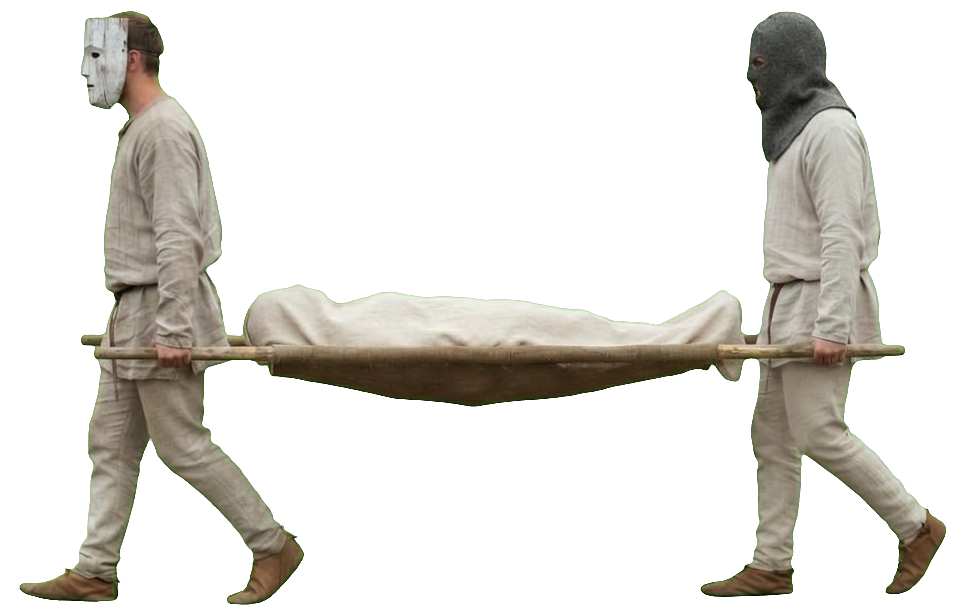
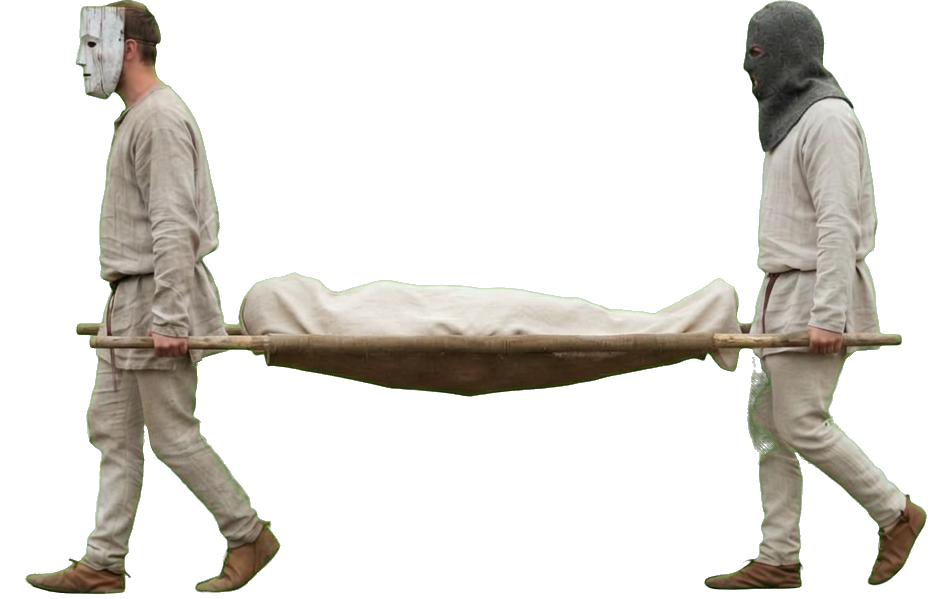
Stretcher bearers step (mid-step pose + RIFE); list of the screens outside the duel
Claude-Session: https://claude.ai/code/session_01NK9iDXTyx3wBvzPstrXWEG

Changed region(s): [[0.0, 0.0, 1.0, 1.0]]

diff --git a/docs/CHANGELOG.fa.md b/docs/CHANGELOG.fa.md
@@ -2,6 +2,10 @@
 
 این فایل خلاصهی کارهای انجامشده است تا اگر کار جای دیگری ادامه پیدا کرد، معلوم باشد چه ساخته شده، چرا، و چه چیزهایی هنوز باز است. جزئیاتِ هر تغییر در پیامِ کامیتهاست (`git log`)؛ اینجا فقط نقشهی راه.
 
+## ۲۸ آبان — برانکاردارها قدم میزنند؛ فهرستِ محیطِ بیرونِ دوئل
+- تصویرِ «پا وسطِ گام» برانکاردِ خالی و پر رسید؛ `medics_empty_a..d` و `medics_loaded_a..d` از نو با `walk_pair.py`.
+- کاربر ویدیوی صفحههای یک بازیِ دیگر را فرستاد (خانه، مسیرِ جایزه، وسیلهها، اتحاد، مأموریت، قلک، فروشگاه، چالش، انتخابِ تیم، حذف و انتخاب): «اینا رو ما هم میخوایم». فقط الهام؛ فهرست و پرامپتِ تصویرها در `docs/META_SCREENS.fa.md`.
+
 ## ۲۸ آبان — گوز همه را زمینگیر میکند
 - کاربر: «گوز همه موجودات زنده رو زمین گیر میکنه و پرنده ها رو میکشه. بقیه باید مسموم شن و دراز بکشن زمین و تاثیر گوز که رفت به حرکتشون ادامه بدن. تنها موجود زنده ای که میتونه حرکت کنه کارگر شهرداریه».
 - تا گوز هست (`StreetLife.Gassed`): عابرها روی زمین میافتند، گاریها و حیوانهای جاده میایستند و فرو مینشینند، کسی تازه وارد نمیشود؛ بعد بلند میشوند و ادامه میدهند. کاروان و گاریِ گاوِ بیهوششده سرِ جا فرو مینشینند و بعد از گوز میروند (`GassedThenLeave`). رفتگر آزاد است.

diff --git a/docs/META_SCREENS.fa.md b/docs/META_SCREENS.fa.md
@@ -1,0 +1,19 @@
+# محیطِ بیرونِ دوئل (۲۸ آبان)
+
+کاربر ویدیوی صفحههای یک بازیِ دیگر را فرستاد: «اینا رو ما هم میخوایم و باید توسعه بدیم». ⚠ فقط الهام: چیدمان، متن، تصویر و نامِ هیچچیز کپی نمیشود.
+
+| # | بخش | الان داریم؟ | تصویرِ لازم |
+|---|---|---|---|
+| ۱ | خانه با دکمههای بخشها | خانه هست، دکمهها متنی | `Icons/hub_*` (برگهی ۸ تایی) |
+| ۲ | مسیرِ جایزهی فصل (رایگان + طلایی) | نه | `UI/season_road` + کیسهها (هست) |
+| ۳ | مأموریتهای روزانه | نه | panel (هست) + آیکن |
+| ۴ | قلک (پسانداز با هر دوئل) | نه | `UI/jar_0..2` |
+| ۵ | فروشگاه و پیشنهادِ روز | نه | `UI/shop` + `UI/coins_0..3` + `UI/gems_0..3` |
+| ۶ | اتحاد (گروه، گفتگو، روزِ جنگ) | نه (سرور لازم) | `UI/banner_0..3` |
+| ۷ | چالش (۱۲ برد یا ۳ باخت) | نه | `UI/challenge` |
+| ۸ | جستوجوی حریف | ساده | `UI/searching` |
+| ۹ | انتخابِ تیم، حذف و انتخاب | هست (DraftScreen) | — |
+| ۱۰ | وسیلهها/گنجه | نه؛ اول باید طراحی شود چه وسیلهای چه میکند | بعداً |
+
+⚠ پرداختِ واقعی، تبلیغ و هر حسابِ بیرونی فقط با تأییدِ صریحِ کاربر. ۶ و بخشی از ۲ و ۵ سرور میخواهند.
+پرامپتها در پیامِ چتِ ۲۸ آبان.
